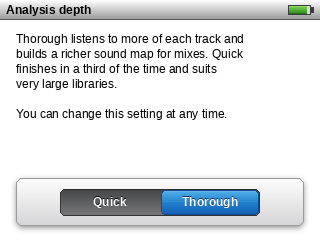
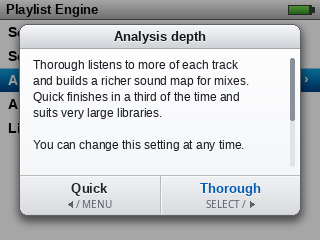
Update Classic/Fruit dialog design note and mockups for pop-up one-press prompts
Revise docs/podbox/design/dialogs/ to specify centred 2.0.5 silver-and-white
modal pop-ups over the dimmed screen with quiet Click Wheel key-hint footers
and direct one-press key mappings (LEFT/MENU = No, RIGHT/SELECT = Yes;
USB SELECT = Connect, MENU = Charge Only, RIGHT = Remote Control; PLAY =
playback).

diff --git a/docs/podbox/design/dialogs/README.md b/docs/podbox/design/dialogs/README.md
@@ -1,57 +1,54 @@
 # Classic / Fruit Company Dialogs (iPod Classic 2.0.5 Style)
 
-Under `style.dialog=classic` (set by `classic()`, so inherited by Classic, Fruit Company, and Fruit Company Ultra), modal prompts, confirmations, splashes, and pickers replace the flat Scrim box with iPod Classic 2.0.5's visual system. Scrim keeps `style.dialog=flat` and stays pixel-identical.
+Under `style.dialog=classic` (set by `classic()`, so inherited by Classic, Fruit Company, and Fruit Company Ultra), modal prompts, confirmations, splashes, and pickers use iPod Classic 2.0.5's visual system. Scrim keeps `style.dialog=flat` and stays pixel-identical.
 
-## Inventory & Stock 2.0.5 Classification
+## Inventory & Forms
 
-| Dialog / Splash | Code path | Stock 2.0.5 status | Classic / Fruit form |
-|---|---|---|---|
-| Yes/No confirmations (`gui_syncyesno_run*`, `yesno_pop`, `yesno_pop_confirm`) | `widgets/yesno.c` | **Stock equivalent** — *Settings → Reset Settings* (local QEMU 2.0.5 capture `05_reset_settings_dialog.png`) | Full-screen white page + bottom frosted silver dock with glossy segmented option bar |
-| USB Disk Mode consent (`gui_usb_confirm_run`) | `widgets/usb_confirm.c` | **AstraPod-only** (stock enters Disk Mode automatically) | Full-screen white page + bold heading, explanation, and normal stock 24 px choice list rows |
-| Scrollable prose dialogs & confirmations (`dialog_prose_show`, `dialog_prose_confirm`) | `widgets/dialog_prose.c` | **AstraPod-only** (combines stock *Notes* text page + *Reset Settings* bottom dock) | Full-screen white page + scrollable black text + bottom frosted silver dock (`OK` or `Cancel \| Accept`) |
-| Search dialog (`search_dialog_run`) | `widgets/search_dialog.c` | **Stock equivalent** — *Music → Search* (local QEMU 2.0.5 capture `04_search.png`) | Full-screen white page + top recessed search input band + full-width stock blue-bar result rows |
-| Folder selector (`folder_select_in_buffer`) | `widgets/folder_select.c` | **AstraPod-only** (follows stock *Settings → Main Menu* list `09_main_menu_bottom.png`) | Full-screen white page + full-width stock blue-bar tree rows |
-| Single-line text input (`dialog_input`) | `widgets/keyboard.c` | **AstraPod-only** | Full-screen white page + recessed rounded input field + bottom frosted silver `Cancel \| OK` dock |
-| Time/date & colour pickers (`set_time_screen`, `set_color`) | `screens/system/time_set.c`, `widgets/color_picker.c` | **AstraPod-only** | Full-screen white page + glossy Aqua blue selected field + bottom glossy `Cancel \| OK` pills |
-| Timed & instant splashes (`splash()`, `splashf()`, `splashf_in()`) | `widgets/splash.c` | **AstraPod-only** (brief transient notice; matches stock *Extras → Clocks* dark glass `04_clocks_overlay.png`) | Centred dark glossy glass rounded panel over dimmed screen, fade + zoom |
-| Progress splashes (`splash_progress()`, `splash_progress_in()`) & Sound Scan (`ss_draw`, `ss_result`) | `widgets/splash.c`, `screens/system/sound_scan.c` | **AstraPod-only** (brief transient progress / notice) | Centred dark glossy glass rounded panel + recessed track with glossy Aqua progress fill |
-| Star rating overlay (`rating_dialog`) | `widgets/rating_dialog.c` | **Stock equivalent** (stock rates inline on Now Playing; brief quick-adjust overlay uses *Clocks* dark glass `04_clocks_overlay.png`) | Centred dark glossy glass rounded panel with white bold title and stars, fade + zoom |
-| Extras Clocks action overlay | `screens/extras/extras_clock.c` | **Stock equivalent** — *Extras → Clocks* (`04_clocks_overlay.png`) | Already uses stock `System_Overlay` + `OptionBar_Black` bitmaps (unchanged) |
-| Control Centre / Quick Screen | `screens/playback/quick_screen.c` | **AstraPod-only** (Leopard HUD) | Already uses `style.quick_screen=hud` (unchanged) |
+| Dialog / Splash | Classic / Fruit form | Keys (Classic & Fruit) |
+|---|---|---|
+| Yes/No confirmations (`yesno.c`) | Centred silver-and-white modal pop-up over dimmed screen, fade + zoom | **LEFT** / **MENU** = No (left); **RIGHT** / **SELECT** = Yes (right). Custom labels (`back_cancels`): **LEFT** = left option, **RIGHT** / **SELECT** = right option, **MENU** = cancel. **PLAY** = playback |
+| USB Disk Mode consent (`usb_confirm.c`) | Centred silver-and-white modal pop-up over dimmed screen, fade + zoom | **SELECT** = Connect, **MENU** = Charge Only, **RIGHT** = Remote Control (when playing + handoff capable), **PLAY** = playback |
+| Prose show (`dialog_prose_show`) | Centred silver-and-white modal pop-up over dimmed screen, fade + zoom | Wheel scrolls text; **SELECT** / **MENU** / **LEFT** / **RIGHT** dismiss; **PLAY** = playback |
+| Prose confirm (`dialog_prose_confirm`) | Centred silver-and-white modal pop-up over dimmed screen, fade + zoom | Wheel scrolls text; **LEFT** / **MENU** = left option (cancel); **RIGHT** / **SELECT** = right option (accept); **PLAY** = playback |
+| Single-line text input (`keyboard.c`) | Centred silver-and-white modal pop-up over dimmed screen, fade + zoom | Wheel cycles character; **LEFT** / **RIGHT** move caret (hold = backspace / delete); **SELECT** = OK; **MENU** = Cancel |
+| Time/date & colour pickers (`time_set.c`, `color_picker.c`) | Centred silver-and-white modal pop-up over dimmed screen, fade + zoom | Grid navigation (>3 choices): wheel edits value, **LEFT** / **RIGHT** / **MENU** / **PLAY** move cells, **SELECT** confirms, hold **MENU** cancels |
+| Search dialog (`search_dialog.c`) | Full-screen white stock page + 20 px silver status bar + top recessed search band + blue selection rows, horizontal slide | Standard search keyboard + list navigation |
+| Folder selector (`folder_select.c`) | Full-screen white stock page + 20 px silver status bar + blue selection rows, horizontal slide | Wheel moves row, **SELECT** expands/collapses, hold **SELECT** includes/excludes, **MENU** exits |
+| Timed & progress splashes (`splash.c`, `sound_scan.c`) | Centred dark smoked glossy glass pop-up over dimmed screen, fade + zoom | Transient / any key dismisses result |
+| Star rating overlay (`rating_dialog.c`) | Centred dark smoked glossy glass pop-up over dimmed screen, fade + zoom | Wheel adjusts half-stars, **SELECT** saves, hold **SELECT** clears, **MENU** cancels |
+| Extras Clocks action overlay (`extras_clock.c`) | Stock `System_Overlay` + `OptionBar_Black` bitmaps (unchanged) | Stock Clocks keys |
+| Control Centre / Quick Screen (`quick_screen.c`) | Leopard HUD (`style.quick_screen=hud`, unchanged) | Quick Screen keys |
 
-## Design Reasoning & Visual Forms
+## Visual Forms & Transitions
 
-Stock 2.0.5 almost never floats a modal box over a white menu: full interactive choices take the whole screen below the 20 px silver status bar and slide horizontally like normal navigation (`UI_MOTION_PUSH` / `UI_MOTION_POP`), reserving dark glossy rounded panels for brief overlays.
+### 1. Interactive modal pop-up (`yesno.c`, `usb_confirm.c`, `dialog_prose.c`, `keyboard.c`, `time_set.c`, `color_picker.c`)
 
-### 1. Full-screen confirmation page (`yesno.c`, `dialog_prose.c`, `keyboard.c`, `time_set.c`, `color_picker.c`)
-Matches stock 2.0.5 *Reset Settings*:
-- Stock 20 px silver status bar at top with title and battery/play indicators.
-- Crisp `#ffffff` full-screen canvas (`y = 20..239`), bold `17-helvetica-bold` heading at `x = 22, y = 42`, regular `13-helvetica` detail below.
-- Bottom frosted silver rounded dock (`x = 16, y = 178, w = 288, h = 48, r = 6`, soft drop shadow) holding a glossy segmented option bar (`h = 27, r = 5`): dark charcoal well and glossy Aqua blue selection pill from `UI_GRADIENT_SELECTION`, white `13-helvetica-bold` labels with a `-1 px` shadow.
-- Enters and leaves with a horizontal stock page slide below the status bar.
+Short interactive prompts float over the current screen rather than replacing it with a full-screen page:
 
-![Yes/No confirmation page](01-yesno-fullscreen.png)
-![Prose confirmation page](05-modal-dialog.png)
+- **Backdrop & motion:** the underlying screen stays visible, dimmed smoothly via `ui_sheet_dim()`, while the panel enters and leaves with `ui_sheet_paint_zoom()` (12 frames ~180 ms open, 9 frames ~135 ms close, gentle scale + fade — matching the glass splashes). Dismissal restores the exact pixels underneath with no status bar rewrite or flash.
+- **Panel chrome:** rounded porcelain-white panel (`r = 8`), soft drop shadow, crisp `1 px` `#5e6268` outer rim with an inner white highlight. Titled dialogs carry a `24 px` brushed-silver title strip at the top.
+- **Quiet key-hint footer:** a brushed-silver footer band with hairline dividers displays each option and its Click Wheel key (`◀ / MENU` on the left, `SELECT / ▶` on the right for two-choice prompts; aligned `SELECT`, `MENU`, `▶ RIGHT` rows for USB consent). Labels use crisp typography (charcoal for secondary/No, deep Classic Aqua blue `#0058b0` for primary/Yes) with no raised pills or movable focus bars that look tappable.
 
-### 2. Full-screen stock choice & list page (`usb_confirm.c`, `search_dialog.c`, `folder_select.c`)
-Matches stock 2.0.5 full-screen choice lists and *Search*:
-- Stock 20 px silver status bar (`USB`, `Search`, or picker title) on `#ffffff` background.
-- For USB consent: bold heading `"Computer Connected"` + short explanation above a `#d0d0d0` rule, followed by full-width 24 px stock choice rows (`Connect`, `Charge Only`, and `Remote Control` when playing with handoff) highlighted with `UI_GRADIENT_SELECTION`.
-- For Search and Folder Selector: full-screen white list with full-width `UI_GRADIENT_SELECTION` bars (and a recessed white search field band at top for Search).
-- Enters and leaves with a horizontal stock page slide.
+![Yes/No modal pop-up](01-yesno-popup.png)
+![USB Disk Mode consent pop-up](02-usb-consent.png)
+![Prose confirmation pop-up](05-modal-dialog.png)
 
-![USB Disk Mode consent page](02-usb-consent.png)
+### 2. Full-screen stock list pickers (`search_dialog.c`, `folder_select.c`)
+
+Long list pickers take the full screen below the 20 px silver status bar (`UI_MOTION_PUSH` / `UI_MOTION_POP` horizontal slide) with full-width `UI_GRADIENT_SELECTION` bars and wheel-to-select list behaviour.
+
 ![Search full-screen page](06-search-fullscreen.png)
 
 ### 3. Centred dark glossy glass panel (`splash.c`, `rating_dialog.c`, `sound_scan.c`, rotated `d->fb` prose)
-Reserved strictly for brief transient notices, progress bars, and quick-adjust overlays:
-- Dimmed backdrop (`ui_sheet_dim()`) with a smoked translucent rounded panel (`r = 10`), soft drop shadow (`depth = 6, drop = 3`), top specular gloss highlight ending in a crisp horizon line, and a `1 px` translucent light rim.
-- Crisp white bold text (`-1 px` dark shadow) and glossy Aqua blue progress fill (`UI_GRADIENT_PROGRESS`).
-- Enters and leaves with `ui_sheet_paint_zoom()` (fade + gentle scale).
+
+Brief transient notices, progress meters, and quick-adjust overlays use the smoked translucent dark glass panel (`r = 10`, specular gloss top band, white shadow text, glossy Aqua progress bar) with the same fade + zoom transition.
 
 ![Transient splash notice](03-splash-notice.png)
 ![Progress splash](04-splash-progress.png)
 
-## Controls under Fruit themes
+## One-Press Key Rules
 
-Under Fruit themes (`UI_MENU_TREE_STOCK`), all dialogs are operated strictly with the click wheel, **SELECT**, and **MENU**; **LEFT**, **RIGHT**, and **PLAY** remain playback controls only.
+- Every dialog with two or three choices answers in **one key press**, never wheel-then-SELECT.
+- Two-choice side-by-side prompts place **No / Cancel** on the **LEFT** and **Yes / Accept** on the **RIGHT**: **LEFT** activates the left choice, **RIGHT** activates the right choice, and **SELECT** / **MENU** keep their direct accept / cancel bindings.
+- Dialogs are modal prompts rather than navigation pages, so **LEFT** and **RIGHT** act on the dialog in Fruit Company and Fruit Company Ultra as well as Classic; **PLAY** remains playback control (play/pause).
+- Dialogs with more than three choices (lists, search, grid pickers, star rating) keep wheel-to-select plus **SELECT**.
